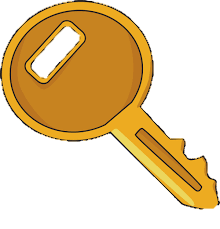
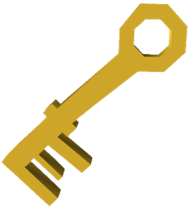
Changed key

diff --git a/CapstoneProject/src/screens/Level.java b/CapstoneProject/src/screens/Level.java
@@ -14,7 +14,7 @@ public class Level extends Screen {
 	
 	 protected double startX, startY, keyX, keyY, gateX, gateY;
 	 protected ArrayList<Platform> platforms;
-	 protected PImage returnIcon, gate;
+	 protected PImage returnIcon, gate, key;
 	 protected Ellipse2D returnButton;
 	 private Player player;
 	 private int level;
@@ -31,8 +31,8 @@ public class Level extends Screen {
 		if (level == 1) {
 			startX = 50;
 			startY = 200;
-			keyX = 500;
-			keyY = 50;
+			keyX = 600;
+			keyY = 200;
 			gateX = 600;
 			gateY = 400;
 		}
@@ -45,6 +45,8 @@ public class Level extends Screen {
 		returnIcon.resize(50, 50);
 		gate = surface.loadImage("img/gate.png");
 		gate.resize(100, 100); 
+		key = surface.loadImage("img/key.png");
+		key.resize(50, 50);
 		addPlatforms();
 		
 	 }
@@ -62,6 +64,7 @@ public class Level extends Screen {
 		 surface.background(0);
 		 surface.image(returnIcon, 10, 10);
 		 surface.image(gate, (int) gateX, (int) gateY);
+		 surface.image(key, (int) keyX, (int) keyY);
 		 player.draw(surface);
 		 for (Platform platform : platforms) {
 			 if (platform != null) platform.draw(surface);
